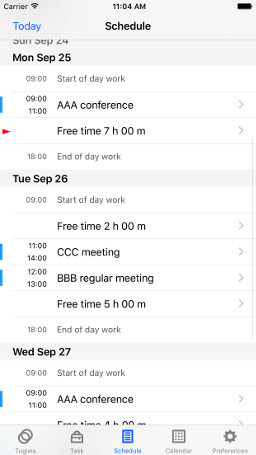
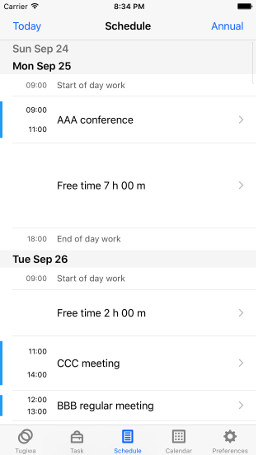
年間スケジュールの説明の追加

diff --git a/index-ja.html b/index-ja.html
@@ -191,6 +191,20 @@
 
         <div class="row" style="margin-top: 1em">
           <div class="col-md-8 col-sm-12">
+            <h4>スケジュール Tab - 年間スケジュール表示</h4>
+            <ul>
+              <li>一年間の予定を俯瞰できます。</li>
+            </ul>
+          </div>
+          <div class="col-md-4 col-sm-12">
+            <a href="img/ja/Annual Schedule.png">
+              <img class="pull-right img-thumbnail" src="img/ja/Annual Schedule.jpg" alt="Annual Schedule">
+            </a>
+          </div>
+        </div>
+
+        <div class="row" style="margin-top: 1em">
+          <div class="col-md-8 col-sm-12">
             <h4>カレンダー Tab</h4>
             <ul>
               <li>日ごとの忙しさ具合を確認できます。</li>

diff --git a/index.html b/index.html
@@ -187,6 +187,20 @@
 
         <div class="row" style="margin-top: 1em">
           <div class="col-md-8 col-sm-12">
+            <h4>Schedule Tab - Annual Schedule</h4>
+            <ul>
+              <li>You can see the schedule of the year at single page.</li>
+            </ul>
+          </div>
+          <div class="col-md-4 col-sm-12">
+            <a href="img/en/Annual Schedule - en.png">
+              <img class="pull-right img-thumbnail" src="img/en/Annual Schedule - en.jpg" alt="Annual Schedule">
+            </a>
+          </div>
+        </div>
+
+        <div class="row" style="margin-top: 1em">
+          <div class="col-md-8 col-sm-12">
             <h4>Calendar Tab</h4>
             <ul>
               <li>You can check the busyness of each day by the color depth.</li>
